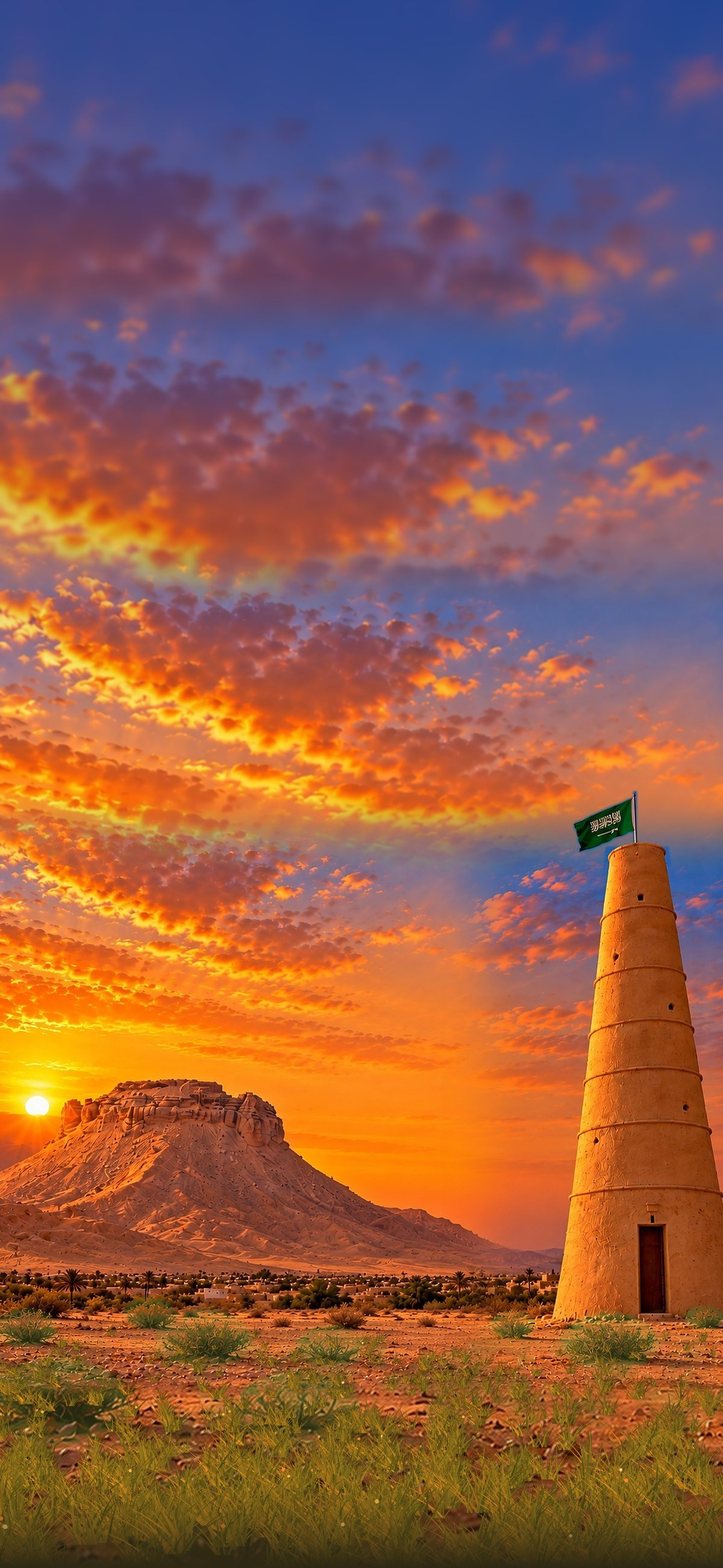
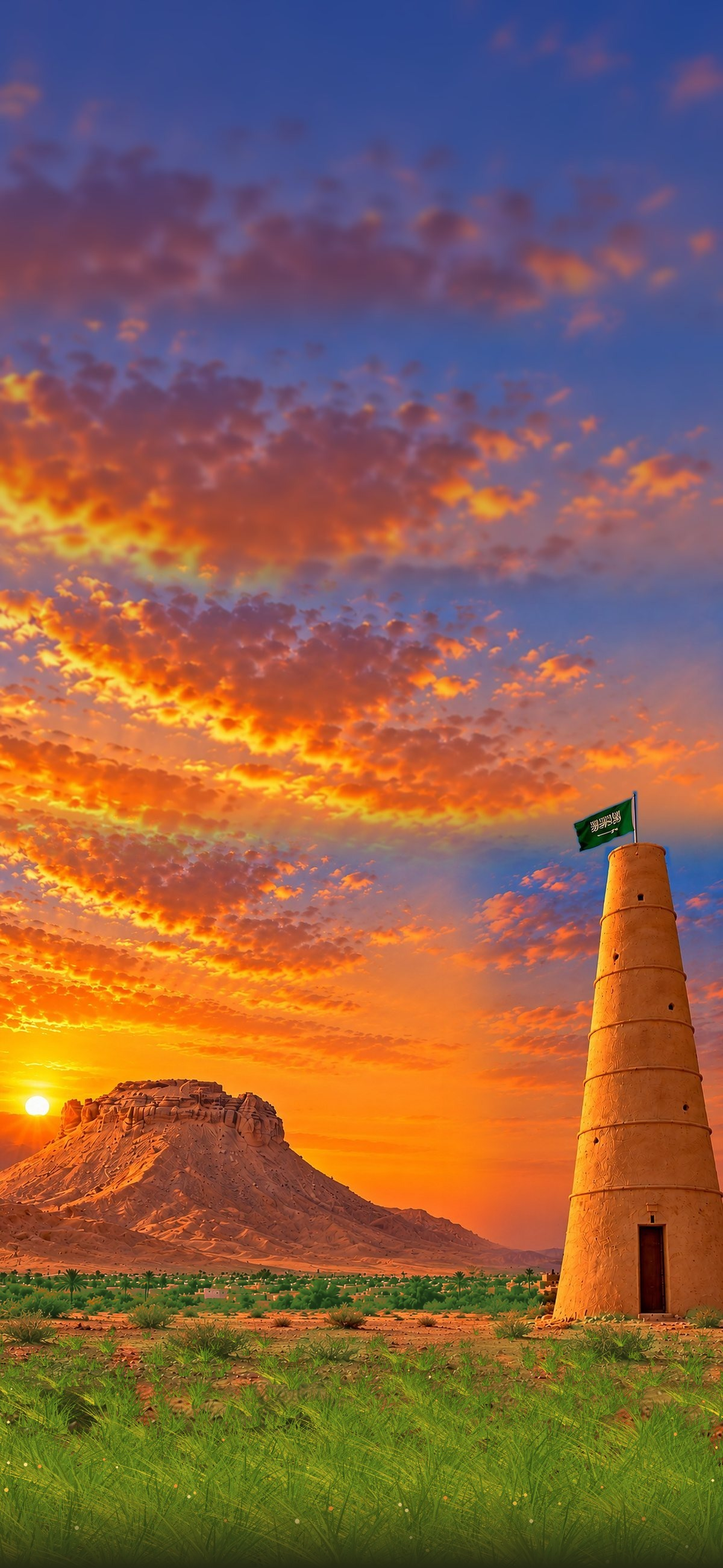
Tree background: more greenery, denser grass and a green oasis at the horizon

Changed region(s): [[0.0, 0.81, 1.0, 0.9969]]

diff --git a/v7/index.html b/v7/index.html
@@ -864,7 +864,7 @@ function initGL(){
     const upRep=(img,fmt)=>{const t=gl.createTexture();gl.bindTexture(gl.TEXTURE_2D,t);try{gl.texImage2D(gl.TEXTURE_2D,0,fmt,fmt,gl.UNSIGNED_BYTE,img);}catch(e){return null;}gl.generateMipmap(gl.TEXTURE_2D);
       gl.texParameteri(gl.TEXTURE_2D,gl.TEXTURE_MIN_FILTER,gl.LINEAR_MIPMAP_LINEAR);gl.texParameteri(gl.TEXTURE_2D,gl.TEXTURE_MAG_FILTER,gl.LINEAR);gl.texParameteri(gl.TEXTURE_2D,gl.TEXTURE_WRAP_S,gl.MIRRORED_REPEAT);gl.texParameteri(gl.TEXTURE_2D,gl.TEXTURE_WRAP_T,gl.CLAMP_TO_EDGE);return{tex:t,w:img.naturalWidth,h:img.naturalHeight};};
     // الخلفية: v7/bg/bg-scene.jpg (بانوراما المعلمين، يفضّل 3840×1600، تُعرض بملء الشاشة) و v7/bg/crown-mask.png (قناع قص الشجرة)
-    if(!POSTERBG)loadImg(innerHeight>innerWidth*1.15?'bg/bg-tree-portrait.jpg?v=2':'bg/bg-scene.jpg?v=4',i=>{if(!gl)return;const t=up(i,gl.RGB);if(t){G.scene=t;G.sceneA=i.naturalWidth/i.naturalHeight;}});
+    if(!POSTERBG)loadImg(innerHeight>innerWidth*1.15?'bg/bg-tree-portrait.jpg?v=3':'bg/bg-scene.jpg?v=5',i=>{if(!gl)return;const t=up(i,gl.RGB);if(t){G.scene=t;G.sceneA=i.naturalWidth/i.naturalHeight;}});
     if(!POSTERBG)loadImg('bg/node-mask.png',i=>{if(!gl)return;const t=up(i,gl.LUMINANCE);if(t)G.node=t;});
     if(!POSTERBG)loadImg(MOBILE?'bg/cut-mask.png?v=1':'bg/crown-mask.png',i=>{if(!gl)return;const t=up(i,gl.LUMINANCE);if(t)G.crown=t;});
     try{initStageGL();}catch(e){console.warn('stage off:',e);G.bb=null;}

diff --git a/v7/sw.js b/v7/sw.js
@@ -1,5 +1,5 @@
 // خدمة العمل بدون إنترنت: الواجهة من الشبكة أولاً، والصور والبلاطات من الذاكرة أولاً
-const C='ajlan-v7-54',SHELL=['./','./index.html','./nasab.html','./people_all.json','./manifest.webmanifest','./bg/bg-scene.jpg','./bg/bg-home-portrait.jpg','./bg/bg-tree-portrait.jpg','./bg/crown-mask.png','./bg/node-mask.png','./bg/logo.png','../v4/tree-small.jpg'];
+const C='ajlan-v7-55',SHELL=['./','./index.html','./nasab.html','./people_all.json','./manifest.webmanifest','./bg/bg-scene.jpg','./bg/bg-home-portrait.jpg','./bg/bg-tree-portrait.jpg','./bg/crown-mask.png','./bg/node-mask.png','./bg/logo.png','../v4/tree-small.jpg'];
 self.addEventListener('install',e=>{e.waitUntil(caches.open(C).then(c=>c.addAll(SHELL)).then(()=>self.skipWaiting()));});
 self.addEventListener('activate',e=>{e.waitUntil(caches.keys().then(ks=>Promise.all(ks.filter(k=>k!==C).map(k=>caches.delete(k)))).then(()=>self.clients.claim()));});
 self.addEventListener('fetch',e=>{const r=e.request;if(r.method!=='GET')return;const u=new URL(r.url);
